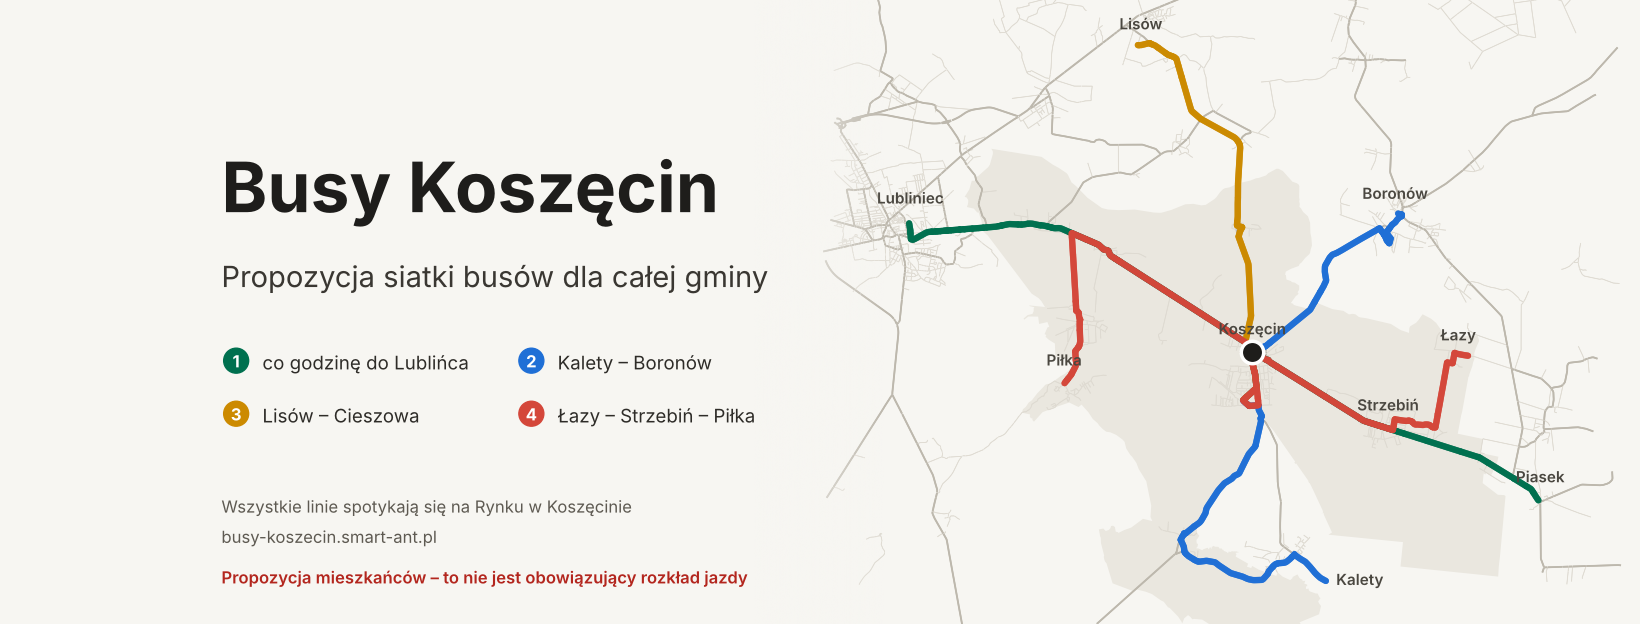
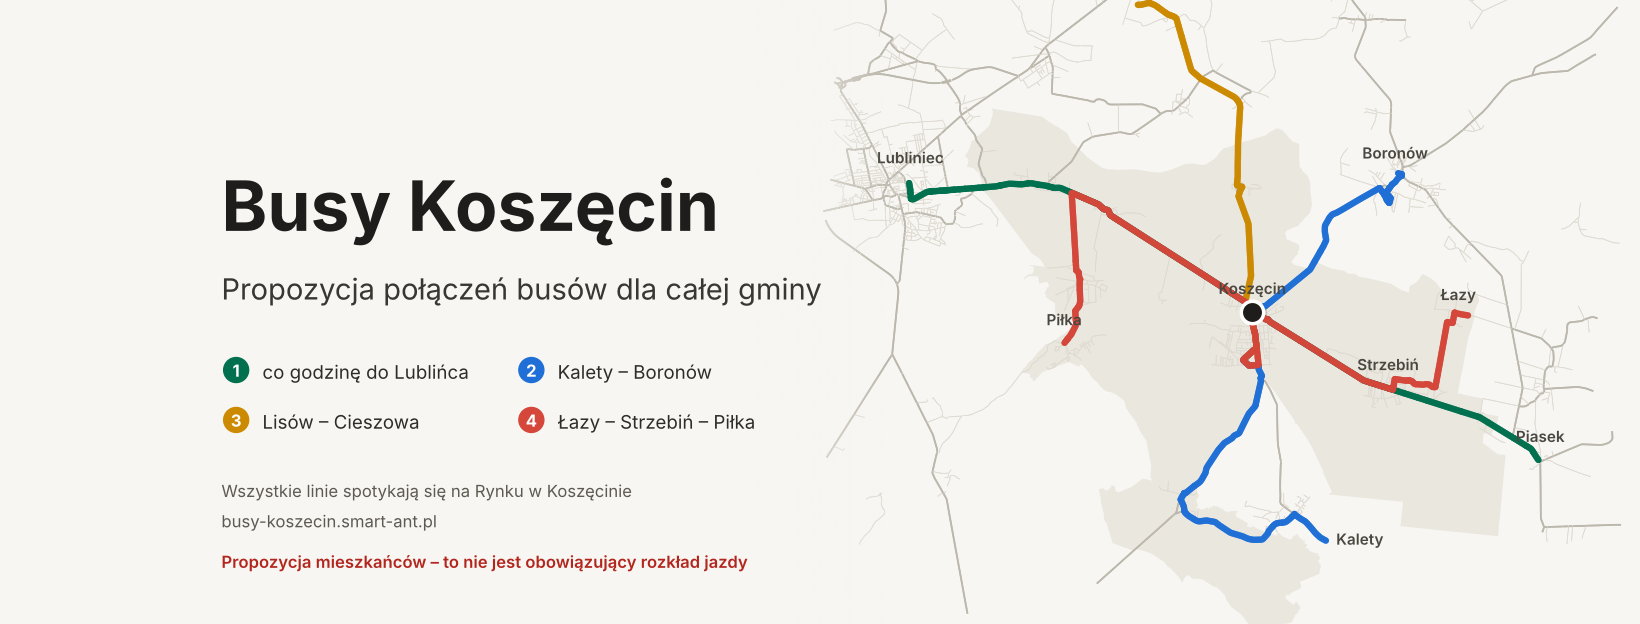
FB: tło – Koszęcin w połowie wysokości
Claude-Session: https://claude.ai/code/session_016huVJsA5HNCH8rrAz5yc4V

diff --git a/fb/grafiki.py b/fb/grafiki.py
@@ -52,6 +52,8 @@ xs = [p[0] for p in allp]; ys = [p[1] for p in allp]
 cx, cy = (min(xs) + max(xs)) / 2, (min(ys) + max(ys)) / 2
 hy = (max(ys) - min(ys)) / 2 * 1.16; hx = hy * (0.54 * W) / H
 cx -= hx * 0.06
+s_ = open('../skrypty/build.py').read()
+m_ = re.search(r"'kosr':\(([\d.]+),([\d.]+)", s_); cy = float(m_.group(1))   # Koszęcin w połowie wysokości tła
 ax.set_xlim(cx - hx, cx + hx); ax.set_ylim(cy - hy, cy + hy)
 ax.fill([P(*c)[0] for c in gmina], [P(*c)[1] for c in gmina], color='#EAE7DF', lw=0, zorder=0)
 ax.add_collection(LineCollection(drogi, colors='#DEDAD1', linewidths=0.5, zorder=1))
@@ -69,14 +71,14 @@ import numpy as np
 g = fig.add_axes([0.46, 0, 0.08, 1]); g.axis('off')
 g.imshow(np.dstack([np.full((10, 100), c) for c in (0xF7 / 255, 0xF6 / 255, 0xF2 / 255)] + [np.tile(np.linspace(1, 0, 100), (10, 1))]), aspect='auto', extent=[0, 1, 0, 1])
 fx = 0.135
-fig.text(fx, 0.66, 'Busy Koszęcin', fontsize=50, fontweight='bold', color=CIEMNY)
-fig.text(fx, 0.54, 'Propozycja siatki busów dla całej gminy', fontsize=21, color='#3A3732')
+fig.text(fx, 0.63, 'Busy Koszęcin', fontsize=50, fontweight='bold', color=CIEMNY)
+fig.text(fx, 0.52, 'Propozycja połączeń busów dla całej gminy', fontsize=21, color='#3A3732')
 for i, (l, t) in enumerate([('1', 'co godzinę do Lublińca'), ('2', 'Kalety – Boronów'), ('3', 'Lisów – Cieszowa'), ('4', 'Łazy – Strzebiń – Piłka')]):
-    xx = fx + (i % 2) * 0.18; yy = 0.40 - (i // 2) * 0.085
+    xx = fx + (i % 2) * 0.18; yy = 0.385 - (i // 2) * 0.08
     fig.patches.append(matplotlib.patches.Ellipse((xx + 0.009, yy + 0.022), 0.04 * H / W, 0.04 * 1, transform=fig.transFigure, color=KOL[l], figure=fig))
     fig.text(xx + 0.009, yy + 0.021, l, fontsize=12, color='white', fontweight='bold', ha='center', va='center')
     fig.text(xx + 0.025, yy + 0.008, t, fontsize=13.5, color='#2E2C28')
-fig.text(fx, 0.13, 'Wszystkie linie spotykają się na Rynku w Koszęcinie\nbusy-koszecin.smart-ant.pl', fontsize=12, linespacing=1.5, color='#5E5A52')
-fig.text(fx, 0.065, 'Propozycja mieszkańców – to nie jest obowiązujący rozkład jazdy', fontsize=12, color='#B3261E', fontweight='semibold')
+fig.text(fx, 0.155, 'Wszystkie linie spotykają się na Rynku w Koszęcinie\nbusy-koszecin.smart-ant.pl', fontsize=12, linespacing=1.5, color='#5E5A52')
+fig.text(fx, 0.09, 'Propozycja mieszkańców – to nie jest obowiązujący rozkład jazdy', fontsize=12, color='#B3261E', fontweight='semibold')
 fig.savefig(f'{OUT}/tlo.png', dpi=100, facecolor=TLO); plt.close(fig)
 print('ok')
